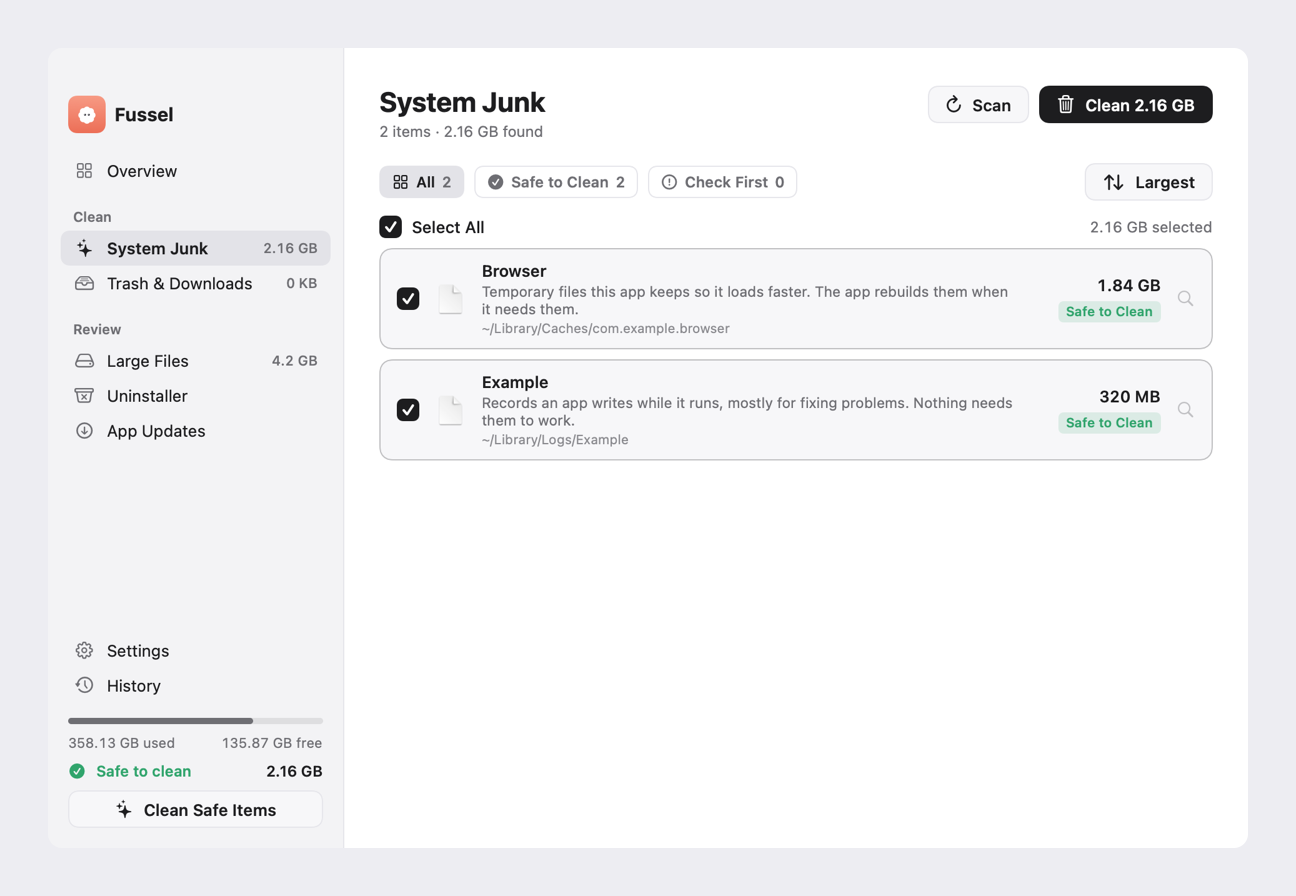
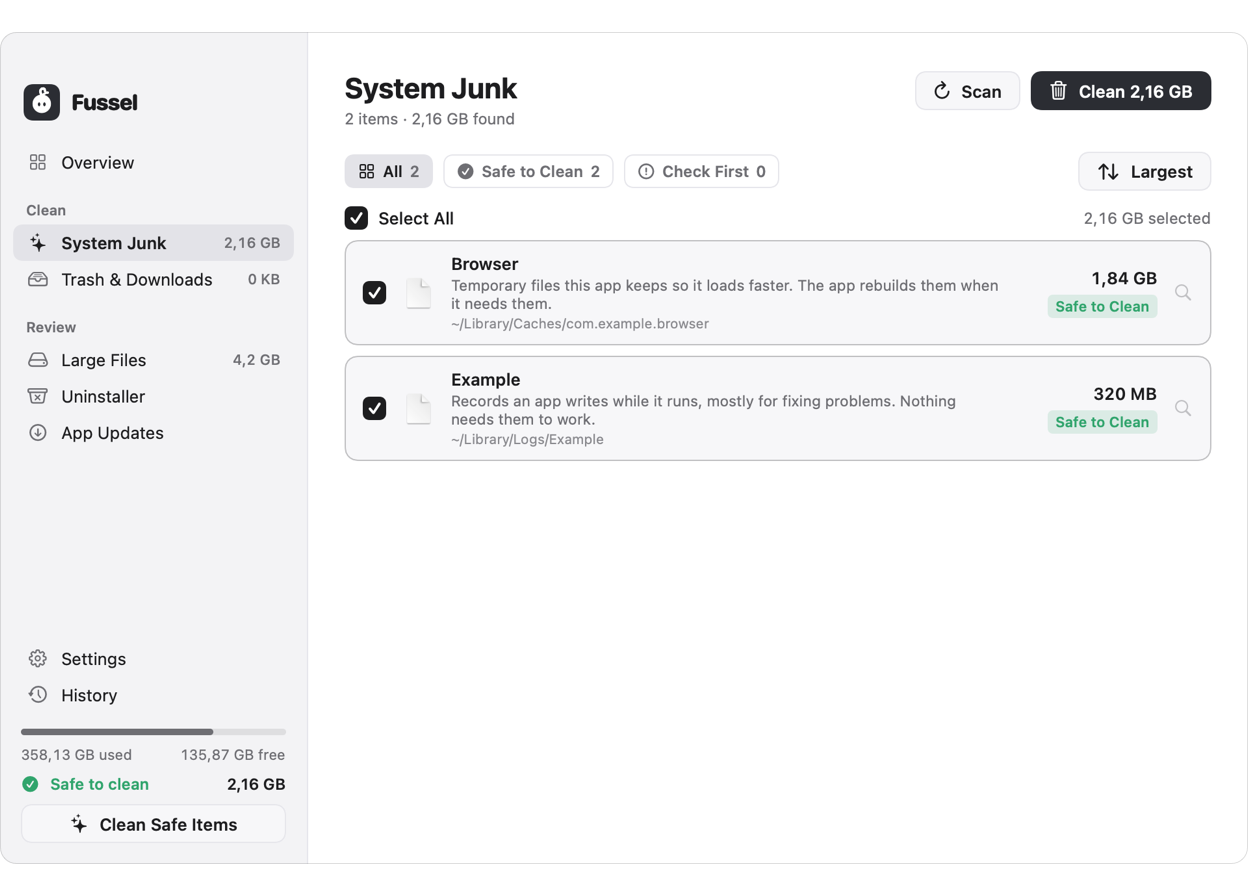
Animated previews in the README
- Fussel --render-gifs draws a tour, the three looks and Fussel himself as GIFs
- README shows the GIFs; overview and list screenshots in the new look

diff --git a/Sources/Fussel/PreviewGIFs.swift b/Sources/Fussel/PreviewGIFs.swift
@@ -1,0 +1,94 @@
+import SwiftUI
+import AppKit
+import ImageIO
+import UniformTypeIdentifiers
+
+/// Animated previews for the README, drawn the same way as the screenshots.
+/// Invoked with `Fussel --render-gifs <folder>`.
+extension PreviewRenderer {
+    static func renderGIFs(to folder: String) {
+        _ = NSApplication.shared
+        isRendering = true
+        UserDefaults.standard.set(true, forKey: FirstLaunch.seen)
+        let dir = URL(fileURLWithPath: folder)
+        try? FileManager.default.createDirectory(at: dir, withIntermediateDirectories: true)
+        let saved = UserDefaults.standard.string(forKey: SettingsKey.appearance)
+        defer { UserDefaults.standard.set(saved, forKey: SettingsKey.appearance) }
+
+        // A tour: scan, see what was found, look closer, clean.
+        UserDefaults.standard.set(AppearanceChoice.system.rawValue, forKey: SettingsKey.appearance)
+        let tour = [("scanning", Page.overview), ("ready", .overview), ("ready", .tool(.junk)), ("done", .overview)]
+            .compactMap { window($0.0, scheme: .light, page: $0.1) }
+        writeGIF(crossfade(tour, hold: 1.8), to: dir.appendingPathComponent("tour.gif"))
+
+        // The looks: Light, Dark and Glass in both.
+        var looks: [CGImage] = []
+        for (choice, scheme) in [(AppearanceChoice.light, ColorScheme.light), (.dark, .dark), (.glass, .light), (.glass, .dark)] {
+            UserDefaults.standard.set(choice.rawValue, forKey: SettingsKey.appearance)
+            if let image = window("ready", scheme: scheme, page: .overview) { looks.append(image) }
+        }
+        writeGIF(crossfade(looks, hold: 1.6), to: dir.appendingPathComponent("styles.gif"))
+
+        // Fussel himself: swinging his curl like while he scans, with a blink.
+        let fps = 30.0
+        let frames: [(CGImage, Double)] = (0..<Int(2.2 * fps)).compactMap { i in
+            let t = Double(i) / fps
+            let tile = RoundedRectangle(cornerRadius: 54, style: .continuous).fill(Theme.graphite)
+                .overlay(FusselBody(blink: (0.9..<1.0).contains(t), curlTilt: 16 * sin(t * 2 * .pi / 1.1))
+                    .frame(width: 184, height: 184))
+                .frame(width: 200, height: 200)
+                .padding(20)
+            let renderer = ImageRenderer(content: tile)
+            renderer.scale = 1
+            return renderer.cgImage.map { ($0, 1 / fps) }
+        }
+        writeGIF(frames, to: dir.appendingPathComponent("fussel.gif"))
+    }
+
+    /// The window in one state, at its real size.
+    private static func window(_ scenario: String, scheme: ColorScheme, page: Page) -> CGImage? {
+        let view = StyledRoot { ContentView(page: page) }
+            .environment(sampleModel(scenario))
+            .environment(\.colorScheme, scheme)
+            .frame(width: 960, height: 640)
+        let renderer = ImageRenderer(content: view)
+        renderer.scale = 1
+        return renderer.cgImage
+    }
+
+    /// Holds each image, then fades softly into the next one, and back to the first at the end.
+    private static func crossfade(_ images: [CGImage], hold: Double, steps: Int = 6) -> [(CGImage, Double)] {
+        var frames: [(CGImage, Double)] = []
+        for (i, image) in images.enumerated() {
+            frames.append((image, hold))
+            let next = images[(i + 1) % images.count]
+            for step in 1..<steps {
+                if let mix = blend(image, next, Double(step) / Double(steps)) { frames.append((mix, 0.04)) }
+            }
+        }
+        return frames
+    }
+
+    private static func blend(_ a: CGImage, _ b: CGImage, _ amount: Double) -> CGImage? {
+        let rect = CGRect(x: 0, y: 0, width: a.width, height: a.height)
+        guard let ctx = CGContext(data: nil, width: a.width, height: a.height, bitsPerComponent: 8, bytesPerRow: 0,
+                                  space: CGColorSpaceCreateDeviceRGB(),
+                                  bitmapInfo: CGImageAlphaInfo.premultipliedLast.rawValue) else { return nil }
+        ctx.draw(a, in: rect)
+        ctx.setAlpha(amount)
+        ctx.draw(b, in: rect)
+        return ctx.makeImage()
+    }
+
+    private static func writeGIF(_ frames: [(CGImage, Double)], to url: URL) {
+        guard let dest = CGImageDestinationCreateWithURL(url as CFURL, UTType.gif.identifier as CFString, frames.count, nil)
+        else { return }
+        CGImageDestinationSetProperties(dest, [kCGImagePropertyGIFDictionary: [kCGImagePropertyGIFLoopCount: 0]] as CFDictionary)
+        for (image, delay) in frames {
+            CGImageDestinationAddImage(dest, image, [kCGImagePropertyGIFDictionary: [
+                kCGImagePropertyGIFDelayTime: delay, kCGImagePropertyGIFUnclampedDelayTime: delay,
+            ]] as CFDictionary)
+        }
+        print(CGImageDestinationFinalize(dest) ? "Rendered \(url.lastPathComponent)" : "Could not write \(url.lastPathComponent)")
+    }
+}

diff --git a/Sources/Fussel/PreviewRenderer.swift b/Sources/Fussel/PreviewRenderer.swift
@@ -77,7 +77,7 @@ enum PreviewRenderer {
         print("Rendered \(name).png")
     }
 
-    private static func sampleModel(_ scenario: String) -> AppModel {
+    static func sampleModel(_ scenario: String) -> AppModel {
         let model = AppModel()
         model.hasFullDiskAccess = scenario != "idle"
         let home = FileManager.default.homeDirectoryForCurrentUser

diff --git a/Sources/Fussel/FusselApp.swift b/Sources/Fussel/FusselApp.swift
@@ -16,6 +16,10 @@ struct FusselApp: App {
             PreviewRenderer.renderAll(to: args[i + 1])
             exit(0)
         }
+        if let i = args.firstIndex(of: "--render-gifs"), i + 1 < args.count {
+            PreviewRenderer.renderGIFs(to: args[i + 1])
+            exit(0)
+        }
     }
 
     var body: some Scene {

diff --git a/README.md b/README.md
@@ -6,7 +6,7 @@
 
 <p align="center">Free up your Mac, calmly. Fussel finds caches, logs and forgotten files, tells you what each one is, and moves what you choose to the Trash.<br><i>Public beta.</i></p>
 
-<p align="center"><img src="docs/screenshots/overview.png" alt="Fussel's overview in light and dark mode"></p>
+<p align="center"><img src="docs/screenshots/tour.gif" width="720" alt="Fussel scanning, showing what it found, explaining System Junk and cleaning up"></p>
 
 - **Overview**: used and free space, a bar that shows where it goes, and a row per tool
 - **System Junk**: app caches, logs and Xcode build data
@@ -16,9 +16,16 @@
 - **App Updates**: updates for apps from the App Store and the web
 
 Every item comes with a plain-language explanation and a **Safe to Clean** or **Check First** label.
-Plus memory, CPU, battery and network at a glance, light and dark mode, and a menu bar helper.
+Plus memory, CPU, battery and network at a glance, and a menu bar helper.
+
+<p align="center"><img src="docs/screenshots/styles.gif" width="720" alt="Fussel in Light, Dark and the see-through Glass style"></p>
+
+<p align="center">Light, Dark or Glass, picked in Settings. Glass lets your desktop shine through, softly blurred.</p>
 
 <p align="center"><img src="docs/screenshots/list.png" width="640" alt="System Junk with explanations and safety labels"></p>
+
+<p align="center"><img src="docs/screenshots/fussel.gif" width="96" alt="Fussel swinging his curl"><br>
+<i>Fussel lives in your menu bar and swings his curl while he looks around.</i></p>
 
 ## Safety first
 

diff --git a/CLAUDE.md b/CLAUDE.md
@@ -22,7 +22,7 @@ open dist/Fussel.app            # starten
 ```
 
 Fussel ist eine Menüleisten-App (keine Dock-Icon, `LSUIElement`). Läuft schon eine Version, vorher beenden: `pkill -x Fussel`.
-`Fussel --render-previews <ordner>` rendert Screenshots aller Stile (ImageRenderer kann keine AppKit-Views wie native Buttons zeichnen; die erscheinen dort als gelbe Platzhalter).
+`Fussel --render-gifs docs/screenshots` erneuert die README-GIFs (tour, styles, fussel). `Fussel --render-previews <ordner>` rendert Screenshots aller Stile (ImageRenderer kann keine AppKit-Views wie native Buttons zeichnen; die erscheinen dort als gelbe Platzhalter).
 
 ## Release
 
